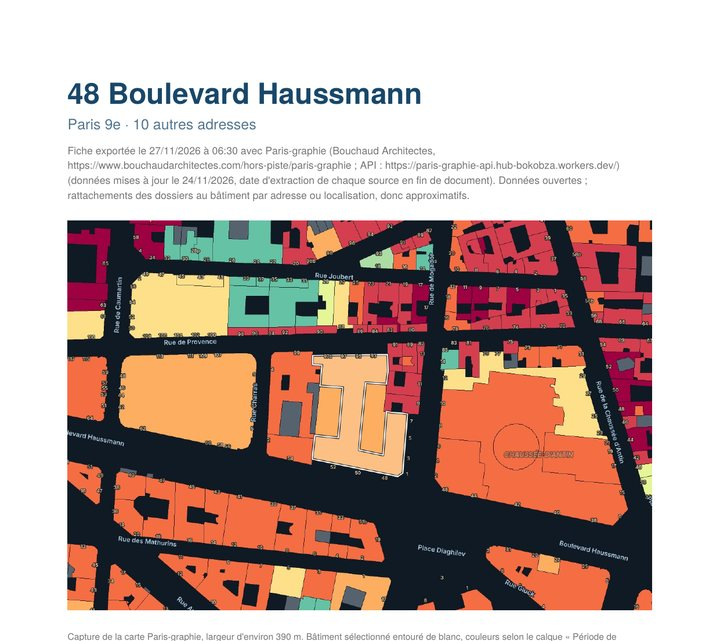
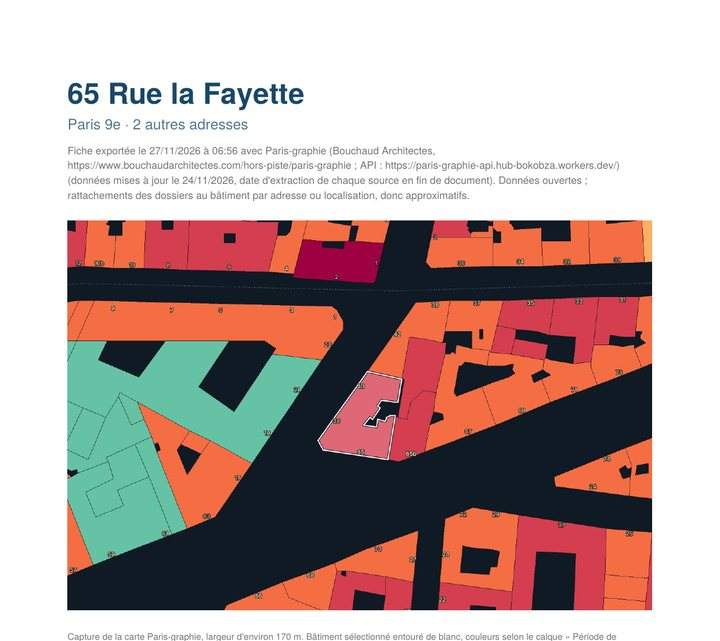
Tutoriel sur le 65 rue La Fayette (coupe sur la rue La Fayette), titre de fiche = adresse recherchée, bâtiment contenant A ou B dessiné dans la coupe
Claude-Session: https://claude.ai/code/session_01Jh7YYgZxbD1kj8CPiBwWcx

diff --git a/static/template.html b/static/template.html
@@ -1189,7 +1189,10 @@ async function showCard(s,pin){
  body(baseInfo(s,undefined,null)+'<div class="k" style="margin-top:8px">Chargement…</div>');
  const [D,C,SR,,AT]=await Promise.all([loadArr(ARR[s]),CN[s]?loadCvp():null,(SNE[s]||SCL[s])?loadSir(ARR[s]):null,(PF[s]&3)?loadMhd():null,loadAtl(),Promise.race([walkFor(s),new Promise(r=>setTimeout(r,3500))])]);
  if(cardFor!==s)return;
- const A=D?D.a:{},P=D?D.p:{},M=cardModel(s,{A,P,D,C,SR,AT}),ad=A&&A[s]||[];
+ const A=D?D.a:{},P=D?D.p:{};
+ // l'adresse recherchée passe en tête (titre de la fiche et du PDF)
+ if(ADPREF&&ADPREF.s===s&&A&&A[s]){const i=A[s].findIndex(a=>nz(a)===nz(ADPREF.t));if(i>0)A[s]=[A[s][i],...A[s].filter((_,k)=>k!==i)];}
+ const M=cardModel(s,{A,P,D,C,SR,AT}),ad=A&&A[s]||[];
  PCTX={s,A,P,D,C,SR,atl:AT,M};
  let out=(ad.length?'<div class="t">'+esc(ad[0])+'</div>':'<div class="t">Pas d\'adresse rattachée</div><div class="k adl">Annexe, cour ou bâtiment sans numéro dans la Base Adresse Nationale</div>')
   +'<div class="sb">'+(AN[s]?'Construit en '+AN[s]:'Date de construction inconnue')+' · Paris '+(ARR[s]?ARR[s]+'e':'')+(ad.length>1?' · '+ad.length+' adresses':'')+'</div>'+legendHtml(s)
@@ -1324,7 +1327,7 @@ async function loadOv(o){
  }
  o.d=d;return d;
 }
-let mark=null;
+let mark=null,ADPREF=null;
 const HPC={};
 function hatchPat(col,ty,k,sp,al){sp=sp||9;al=al||1;const key=col+ty+dpr+sp+al;let p=HPC[key];
  if(!p){const s=Math.round(sp*dpr),c=document.createElement('canvas');c.width=c.height=s;const x=c.getContext('2d');x.globalAlpha=al;x.strokeStyle=col;x.fillStyle=col;x.lineWidth=(al<1?1:1.4)*dpr;x.lineCap='square';
@@ -1766,6 +1769,7 @@ async function cutData(A,B){
  const Bt=[];
  for(let s=0;s<N;s++){if(bbox[4*s+2]<x0||bbox[4*s]>x1||bbox[4*s+3]<y0||bbox[4*s+1]>y1)continue;const ts=[];
   for(let e=edgS[s];e<edgS[s+1];e+=2){const a_=edg[e],b_=edg[e+1];const t=segX([pos[2*a_],pos[2*a_+1]],[pos[2*b_],pos[2*b_+1]]);if(t!=null)ts.push(t);}
+  if(ts.length%2){let r=[],q=[],pv=-1;for(let e=edgS[s];e<edgS[s+1];e+=2){const a_=edg[e],b_=edg[e+1];if(a_!==pv){if(q.length)r.push(q);q=[pos[2*a_],pos[2*a_+1]];}else q.push(pos[2*a_],pos[2*a_+1]);pv=b_;}if(q.length)r.push(q);if(pip(r,ax,ay))ts.push(0);else ts.push(L);}
   if(ts.length<2)continue;ts.sort((p,q)=>p-q);const hm=HM[s]/10,hx=HX[s]/10;if(!(hm>0))continue;
   for(let i=0;i+1<ts.length;i+=2){const t0=ts[i],t1=ts[i+1];if(t1-t0<.3)continue;const zb=Math.min(zAt(t0),zAt(t1));Bt.push({s,t0,t1,zb,hm,hx:Math.max(hm,hx||hm),an:AN[s]});}}
  // parcelles cadastrales coupées : leur réunion donne les îlots, les intervalles entre elles les voies
@@ -2149,7 +2153,7 @@ function goTo(r){
  mark={x:wx,y:wy};
  let s=pick(wx,wy);
  if(s<0)for(const [dx,dy] of [[2,0],[-2,0],[0,2],[0,-2],[4,4],[-4,4],[4,-4],[-4,-4],[8,0],[-8,0],[0,8],[0,-8]]){s=pick(wx+dx,wy+dy);if(s>=0)break;}
- if(s>=0){sel=s;showCard(s,true);}else{sel=-1;showCard(-1);}
+ if(s>=0){ADPREF={s,t:r.t};sel=s;showCard(s,true);}else{sel=-1;showCard(-1);}
  draw();
 }
 qi.addEventListener('input',suggest);qi.addEventListener('focus',()=>{loadAddr();if(qi.value)suggest();});
@@ -2576,22 +2580,30 @@ setCrit(CRIT[0]);ready=true;
 }
 /* ---------- tutoriel des premières visites : 4 étapes, bouton Passer, relançable depuis le pied de page ---------- */
 const TUTO=[
- {el:['#scroll'],h:'Une adresse, des calques',p:'Tapez une adresse pour centrer la carte sur l\'immeuble. Dans la liste, choisissez un calque, ici l\'âge du bâti : les bâtiments se colorent selon ce critère et la légende s\'affiche. Un clic sur un bâtiment ouvre sa fiche.',demo:tuD1},
+ {el:['#scroll'],h:'Une adresse, des calques',p:'Tapez une adresse pour centrer la carte sur un immeuble. Dans la liste, choisissez un calque, ici l\'âge du bâti : les bâtiments se colorent selon ce critère et la légende s\'affiche. Un clic sur un bâtiment ouvre sa fiche.',demo:tuD1},
  {el:['#pdfb'],h:'La fiche PDF',p:'Dans la fiche d\'un bâtiment, le bouton « Exporter la fiche en PDF » produit un dossier complet : carte, données sourcées, autorisations, plans historiques et coupes sur rue tracées automatiquement, de l\'immeuble d\'en face jusqu\'au fond de la parcelle.',img:'tuto-fiche.jpg',demo:tuD2},
  {el:['#zoom'],h:'Le plan, en DXF ou en PDF',p:'Le bouton Plan propose deux formats avant de tracer un rectangle : DXF géoréférencé en Lambert 93 (un calque par couche, pour ArchiCAD, AutoCAD ou QGIS) ou PDF vectoriel aux couleurs de la carte, calques affichés compris.',img:'tuto-plan.jpg',demo:tuD3},
  {el:['#zoom'],h:'La coupe',p:'Le bouton Coupe permet de tracer une ligne de A vers B : terrain IGN, bâti, gabarits du PLU avec leurs règles, arbres selon leur essence et nuage de points LiDAR HD, avec un curseur de profondeur, un plan de repérage et la mesure. Export DXF et PDF vectoriel.',img:'tuto-coupe.jpg',demo:tuD4}];
 function flyView(k1,cx1,cy1,ms=1100){return new Promise(r=>{const k0=view.k,cx0=view.cx,cy0=view.cy,t0=performance.now();const st_=()=>{const u=Math.min(1,(performance.now()-t0)/ms),e=u<.5?2*u*u:1-Math.pow(-2*u+2,2)/2;view.k=k0*Math.pow(k1/k0,e);view.cx=cx0+(cx1-cx0)*e;view.cy=cy0+(cy1-cy0)*e;draw();if(u<1)requestAnimationFrame(st_);else r();};requestAnimationFrame(st_);});}
-/* démonstration : toujours le même immeuble (48 boulevard Haussmann), aperçus pré-calculés */
+/* démonstration : toujours le même immeuble (65 rue La Fayette, projet de Bouchaud Architectes), aperçus pré-calculés */
 const TS={tok:0,save:null,s:-1,cut:null};const tSleep=ms=>new Promise(r=>setTimeout(r,ms));
 let TCUR=null;const tCur=()=>{if(!TCUR){TCUR=document.createElement('div');TCUR.id='tcur';TCUR.innerHTML='<svg viewBox="0 0 24 24" width="26" height="26" aria-hidden="true"><path d="M5 3l14 8-6.2 1.7L9.6 19z" fill="#fff" stroke="#0f1a24" stroke-width="1.4" stroke-linejoin="round"/></svg>';document.body.appendChild(TCUR);}return TCUR;};
 async function tMove(x,y,ms=650){const c=tCur();c.style.transition='left '+ms+'ms cubic-bezier(.4,0,.2,1),top '+ms+'ms cubic-bezier(.4,0,.2,1),opacity .2s';c.style.opacity=1;c.style.left=x+'px';c.style.top=y+'px';await tSleep(ms+40);}
 async function tClick(){const c=tCur();c.classList.remove('clk');void c.offsetWidth;c.classList.add('clk');await tSleep(400);}
 const tPos=q=>{const e=typeof q==='string'?$(q):q;if(!e)return null;const r=e.getBoundingClientRect();return r.width?[r.left+r.width/2,r.top+r.height/2]:null;};
 const tW2s=(x,y)=>[(x-view.cx)*view.k+W/2,Hh/2-(y-view.cy)*view.k];
-async function tBuilding(){if(TS.s>=0)return TS.s;const [wx,wy]=llToW(2.33055,48.87395),cand=[];for(const [dx,dy] of [[0,0],[6,0],[-6,0],[0,6],[0,-6],[12,12],[-12,-12],[20,0],[-20,0]]){const c=pick(wx+dx,wy+dy);if(c>=0&&!cand.includes(c))cand.push(c);}
- let s=cand[0]??-1;try{const D_=await loadArr(ARR[s]);const ok=cand.find(c=>ARR[c]===ARR[s]&&D_&&D_.a&&D_.a[c]&&D_.a[c].length);if(ok!=null)s=ok;}catch(e){}return TS.s=s;}
-async function tZoom(){const s=await tBuilding();if(s<0)return -1;const k=2.3,bx=(bbox[4*s]+bbox[4*s+2])/2,by=(bbox[4*s+1]+bbox[4*s+3])/2,pw=isMob()?0:340-422;
- if(Math.abs(view.k-k)>.05||Math.hypot(view.cx-(bx-pw/2/k),view.cy-(by-(isMob()?innerHeight*.28:-Hh*.17)/k))>3)await flyView(k,bx-pw/2/k,by-(isMob()?innerHeight*.28:-Hh*.17)/k);return s;}
+async function tBuilding(){if(TS.s>=0)return TS.s;let wx,wy;
+ // 65 rue La Fayette (Paris 9e), projet de Bouchaud Architectes, retrouvé dans la base d'adresses
+ try{const A_=await loadAddr(),st_=A_&&A_.find(e=>/^rue la fayette$/.test(e.z)),e=st_&&st_.a.find(a=>nz(a[0])==='65');if(e){wx=e[1]/2;wy=e[2]/2;}}catch(e){}
+ if(wx==null)[wx,wy]=llToW(2.34635,48.87595);let s=pick(wx,wy);if(s<0)for(const [dx,dy] of [[3,0],[-3,0],[0,3],[0,-3],[6,6],[-6,-6]]){s=pick(wx+dx,wy+dy);if(s>=0)break;}
+ TS.big=s;if(s>=0)ADPREF={s,t:'65 Rue La Fayette'};return TS.s=s;}
+// coupe transversale de démonstration : perpendiculaire au grand axe de l'édifice, par son centre
+function tCutLine(s){s=TS.big??s;let n=0,mx=0,my=0;for(let e=edgS[s];e<edgS[s+1];e+=2){const a=edg[e];mx+=pos[2*a];my+=pos[2*a+1];n++;}mx/=n;my/=n;let sxx=0,syy=0,sxy=0;
+ for(let e=edgS[s];e<edgS[s+1];e+=2){const a=edg[e],x=pos[2*a]-mx,y=pos[2*a+1]-my;sxx+=x*x;syy+=y*y;sxy+=x*y;}const th=.5*Math.atan2(2*sxy,sxx-syy),ux=-Math.sin(th),uy=Math.cos(th);
+ let h=0;for(let e=edgS[s];e<edgS[s+1];e+=2){const a=edg[e];h=Math.max(h,Math.abs((pos[2*a]-mx)*ux+(pos[2*a+1]-my)*uy));}h+=28;
+ const A=[mx-ux*h,my-uy*h],B=[mx+ux*h,my+uy*h];return uy>=0?{A,B}:{A:B,B:A};}
+async function tZoom(){const s=await tBuilding();if(s<0)return -1;const g=TS.big??s,k=Math.min(6,Math.max(2.3,260/Math.max(bbox[4*g+2]-bbox[4*g],bbox[4*g+3]-bbox[4*g+1]))),bx=(bbox[4*g]+bbox[4*g+2])/2,by=(bbox[4*g+1]+bbox[4*g+3])/2,pw=isMob()?0:340-422;
+ if(Math.abs(view.k-k)>.05||Math.hypot(view.cx-(bx-pw/2/k),view.cy-(by-(isMob()?innerHeight*.28:Hh*.17)/k))>3)await flyView(k,bx-pw/2/k,by-(isMob()?innerHeight*.28:Hh*.17)/k);return s;}
 async function tuD1(tok){const sc=$('#scroll'),b=$('#scroll button[data-id="per"]');if(!b)return;
  if(!isMob()&&sc){await tMove(innerWidth*.6,innerHeight*.55,500);const p0=tPos(sc);if(p0)await tMove(p0[0],p0[1]);if(tok!==TS.tok)return;
   const r=b.getBoundingClientRect(),r0=sc.getBoundingClientRect();sc.scrollTo({top:sc.scrollTop+r.top-r0.top-r0.height*.35,behavior:'smooth'});await tSleep(900);if(tok!==TS.tok)return;
@@ -2602,10 +2614,10 @@ async function tuD2(tok){if(st.crit.id!=='per'){const b=$('#scroll button[data-i
  sel=s;await showCard(s,true);draw();await tSleep(450);if(tok!==TS.tok)return;const p=tPos('#pdfb');if(p){await tMove(p[0],p[1]);await tClick();}}
 async function tuD3(tok){const s=await tZoom();if(s<0||tok!==TS.tok)return;sel=s;if(cardFor>=0){await showCard(-1);}draw();TS.place&&TS.place();
  let p=tPos('#zp');if(p){await tMove(p[0],p[1]);await tClick();}if(tok!==TS.tok)return;zpMenu(true);await tSleep(250);p=tPos('#zpp');if(p){await tMove(p[0],p[1]);await tClick();}if(tok!==TS.tok)return;
- zpMenu(false);$('#zp').classList.add('on');const m=15,a=[bbox[4*s]-m,bbox[4*s+3]+m],b=[bbox[4*s+2]+m,bbox[4*s+1]-m];XP={a,b:a,fmt:'pdf',demo:1};const pa=tW2s(...a);await tMove(pa[0],pa[1],500);
+ zpMenu(false);$('#zp').classList.add('on');const m=15,g=TS.big??s,a=[bbox[4*g]-m,bbox[4*g+3]+m],b=[bbox[4*g+2]+m,bbox[4*g+1]-m];XP={a,b:a,fmt:'pdf',demo:1};const pa=tW2s(...a);await tMove(pa[0],pa[1],500);
  const t0=performance.now();await new Promise(r=>{const f=()=>{if(tok!==TS.tok||!XP)return r();const u=Math.min(1,(performance.now()-t0)/1100);XP.b=[a[0]+(b[0]-a[0])*u,a[1]+(b[1]-a[1])*u];const q=tW2s(...XP.b),c=tCur();c.style.transition='none';c.style.left=q[0]+'px';c.style.top=q[1]+'px';draw();if(u<1)requestAnimationFrame(f);else r();};requestAnimationFrame(f);});}
 async function tuD4(tok){if(XP&&XP.demo){XP=null;$('#zp').classList.remove('on');}const s=await tZoom();if(s<0||tok!==TS.tok)return;sel=s;if(cardFor>=0)await showCard(-1);draw();TS.place&&TS.place();
- if(!TS.cut){const F=await facadeCuts(s).catch(()=>[]);TS.cut=F[0]||{A:[bbox[4*s]-20,(bbox[4*s+1]+bbox[4*s+3])/2],B:[bbox[4*s+2]+20,(bbox[4*s+1]+bbox[4*s+3])/2]};}
+ if(!TS.cut){const F=await facadeCuts(s).catch(()=>[]);F.sort((p,q)=>(p.A[1]-p.B[1])/Math.hypot(p.A[0]-p.B[0],p.A[1]-p.B[1])-(q.A[1]-q.B[1])/Math.hypot(q.A[0]-q.B[0],q.A[1]-q.B[1]));TS.cut=F[0]||tCutLine(s);/* façade sur la rue La Fayette, au sud */}
  let p=tPos('#zc');if(p){await tMove(p[0],p[1]);await tClick();}if(tok!==TS.tok)return;$('#zc').classList.add('on');const {A,B}=TS.cut;XC={a:A,b:A,demo:1};const pa=tW2s(...A);await tMove(pa[0],pa[1],600);
  const t0=performance.now();await new Promise(r=>{const f=()=>{if(tok!==TS.tok||!XC)return r();const u=Math.min(1,(performance.now()-t0)/1200);XC.b=[A[0]+(B[0]-A[0])*u,A[1]+(B[1]-A[1])*u];const q=tW2s(...XC.b),c=tCur();c.style.transition='none';c.style.left=q[0]+'px';c.style.top=q[1]+'px';draw();if(u<1)requestAnimationFrame(f);else r();};requestAnimationFrame(f);});}
 function tCleanStep(){if(XP&&XP.demo){XP=null;$('#zp').classList.remove('on');zpMenu(false);}if(XC&&XC.demo){XC=null;$('#zc').classList.remove('on');}draw();}

diff --git a/CHANGELOG.md b/CHANGELOG.md
@@ -8,13 +8,19 @@ Pour signaler une anomalie : h.bokobza@bouchaudarchitectes.com
 
 ## 2026-11-27
 
+### Modifié
+- La fiche d'un bâtiment trouvé par la recherche a pour titre l'adresse recherchée (et non la première adresse du bâtiment), y compris dans le PDF.
+
+### Corrigé
+- Coupe : un bâtiment contenant le point A ou B de la coupe est désormais dessiné.
+
 ### Ajouté
 - Bouton « Plan » à la place de « DXF » : il se déplie en DXF (géoréférencé, Lambert 93) et PDF ; on choisit le format avant de tracer le rectangle.
 - Plan en PDF vectoriel A3, aux couleurs de la carte (calque thématique, calques superposés affichés, Seine, limites, noms de rues et numéros), avec échelle, nord, légende et sources. Non géoréférencé.
 - Fenêtre de coupe : export PDF vectoriel A3 à la place du SVG, nuage LiDAR compris (un point vectoriel par point LiDAR, opacité selon la profondeur), calques et profondeur affichés.
 - Fiche PDF : les coupes sur rue sont désormais vectorielles.
 - Coupe : bâtiments en blanc cassé (contour gris) au lieu de blocs gris, pour laisser voir le nuage LiDAR.
-- Tutoriel avec démonstration sur le 48 boulevard Haussmann : défilement et choix du calque de l'âge du bâti, zoom et ouverture de la fiche avec aperçu du PDF, plan PDF tracé avec aperçu, coupe tracée avec aperçu (LiDAR compris). La vue, le calque et la fiche d'origine sont rétablis à la fin.
+- Tutoriel avec démonstration sur le 65 rue La Fayette (projet de Bouchaud Architectes) : défilement et choix du calque de l'âge du bâti, zoom et ouverture de la fiche avec aperçu du PDF, plan PDF tracé avec aperçu, coupe tracée avec aperçu (LiDAR compris). La vue, le calque et la fiche d'origine sont rétablis à la fin.
 
 ## 2026-11-26
 
